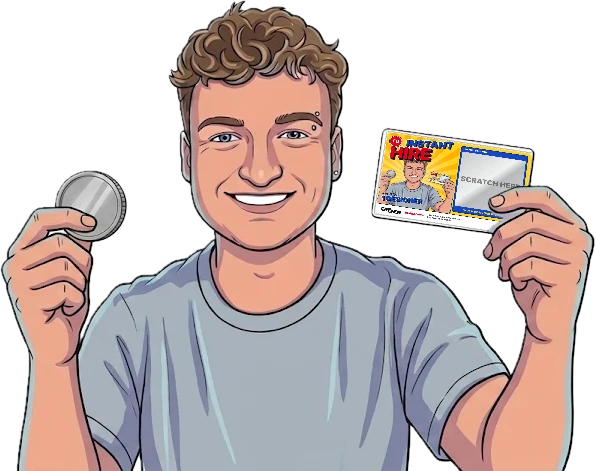
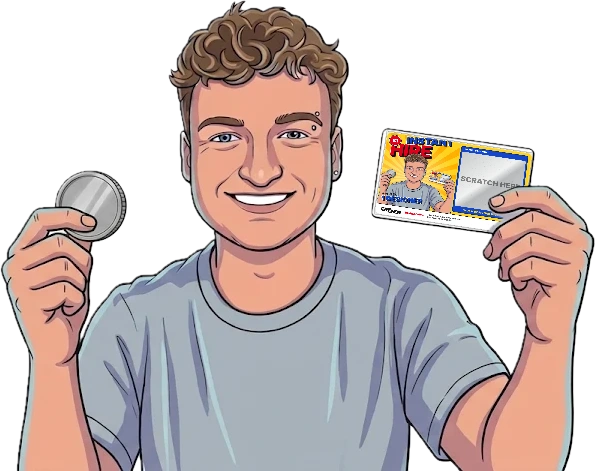
Instant Hire: hair overlaps the title, £1 roundel

Changed region(s): [[0.6342, 0.2675, 0.7852, 0.4459]]

diff --git a/scratch/index.html b/scratch/index.html
@@ -17,14 +17,14 @@ body{margin:0;min-height:100vh;background:#E3E3E0;font-family:var(--font);color:
 .art{position:absolute;left:0;top:0;bottom:7mm;width:43mm;overflow:hidden}
 .burst{position:absolute;inset:-40%;background:repeating-conic-gradient(from 0deg at 45% 55%,#FFB000 0 7deg,#FFD21F 7deg 15deg)}
 .burst::after{content:"";position:absolute;inset:0;background:radial-gradient(circle at 45% 55%,rgba(255,255,255,.55),transparent 40%)}
-.price{position:absolute;left:2mm;top:2mm;z-index:4;width:7mm;height:7mm;border-radius:50%;background:#E3001B;border:.4mm solid #fff;box-shadow:0 0 0 .25mm #141414;display:grid;place-items:center}
+.price{position:absolute;left:1.6mm;top:1.6mm;z-index:5;width:7mm;height:7mm;border-radius:50%;background:#E3001B;border:.4mm solid #fff;box-shadow:0 0 0 .25mm #141414;display:grid;place-items:center}
 .price b{color:#fff;font-size:2.9mm;font-weight:900;letter-spacing:-.04em}
-.title{position:absolute;left:3mm;top:4.4mm;z-index:3;margin:0;transform:rotate(-6deg) skewX(-6deg);transform-origin:left top;line-height:.78;text-transform:uppercase;font-weight:900;font-stretch:118%}
+.title{position:absolute;left:3mm;top:2.6mm;z-index:3;margin:0;transform:rotate(-6deg) skewX(-6deg);transform-origin:left top;line-height:.78;text-transform:uppercase;font-weight:900;font-stretch:118%}
 .title span{display:block;-webkit-text-stroke:.55mm #fff;paint-order:stroke fill}
 .title .t1{font-size:6mm;color:#1446C8;margin-left:8.6mm;text-shadow:.35mm .35mm 0 #141414,.6mm .6mm 0 #141414}
 .title .t2{font-size:10.6mm;color:#E3001B;letter-spacing:-.02em;text-shadow:.5mm .5mm 0 #141414,.85mm .85mm 0 #141414,1.1mm 1.1mm 0 #141414}
-.me{position:absolute;left:-1.5mm;bottom:0;width:46mm;height:auto;z-index:2;filter:drop-shadow(.4mm .4mm 0 rgba(20,20,20,.5))}
-.winup{position:absolute;left:2.2mm;bottom:2.6mm;z-index:3;margin:0;transform:rotate(-4deg);line-height:.9;text-transform:uppercase}
+.me{position:absolute;left:-1.5mm;bottom:0;width:46.6mm;height:auto;z-index:4;filter:drop-shadow(.4mm .4mm 0 rgba(20,20,20,.5))}
+.winup{position:absolute;left:2.2mm;bottom:2.6mm;z-index:5;margin:0;transform:rotate(-4deg);line-height:.9;text-transform:uppercase}
 .winup small{display:block;font-size:1.7mm;font-weight:900;color:#141414}
 .winup b{display:block;font-size:4.1mm;font-weight:900;font-stretch:115%;color:#1446C8;-webkit-text-stroke:.35mm #fff;paint-order:stroke fill;text-shadow:.35mm .35mm 0 #141414}
 .rules{margin:0;font-size:1.3mm;font-weight:700;line-height:1.25;color:#141414;opacity:.8}
@@ -76,7 +76,7 @@ body{margin:0;min-height:100vh;background:#E3E3E0;font-family:var(--font);color:
   <div class="card front" id="front">
     <div class="art">
       <div class="burst" aria-hidden="true"></div>
-      <div class="price"><b>£0</b></div>
+      <div class="price"><b>£1</b></div>
       <h1 class="title"><span class="t1">Instant</span><span class="t2">Hire</span></h1>
       <img class="me" src="me-win.webp" alt="">
       <p class="winup"><small>WIN UP TO</small><b>1 DESIGNER</b></p>
